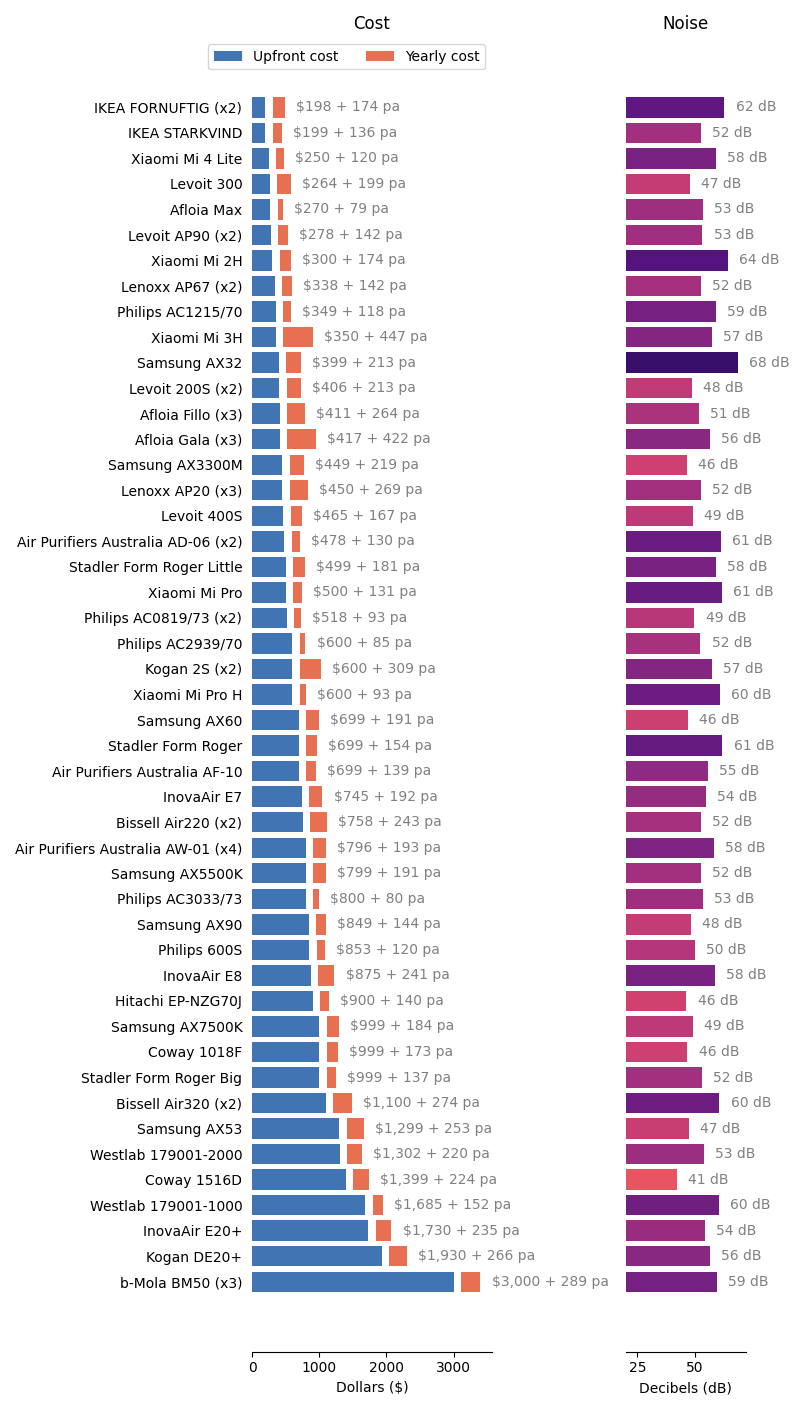
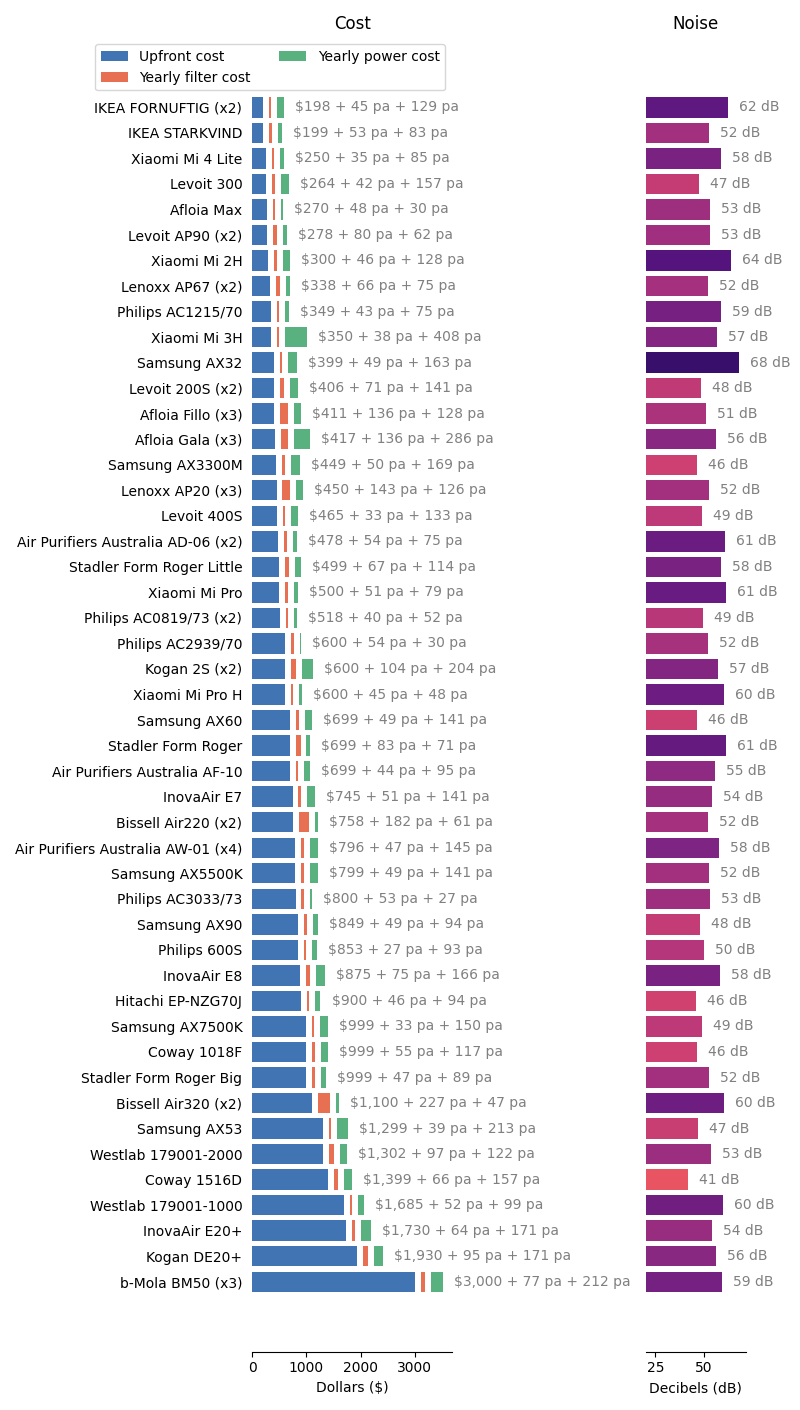
Quick push

diff --git a/products/decision_tool.html b/products/decision_tool.html
@@ -39,16 +39,16 @@ Running costs and noise levels (on the highest fan settings) are calculated from
 <fieldset id="qualityoptions" class="sq-form-section">
 <legend class="sq-form-section-title">How much additional air cleaning do you require?</legend>
 
-<input type="radio" id='poorop' value="poor" name="quality" onClick="update(this.form)">
-<label for="poorop">Poor (4ACH)</label>
-<input type="radio" id='goodop' value="good" name="quality" checked onClick="update(this.form)">
-<label for="goodop">Good (6ACH)</label>
-<input type="radio" id='excellentop' value="excellent" name="quality" onClick="update(this.form)">
-<label for="excellentop">Excellent (9ACH)</label>
+<input type="radio" id='a littleop' value="a little" name="quality" onClick="update(this.form)">
+<label for="a littleop">A little (4ACHe)</label>
+<input type="radio" id='someop' value="some" name="quality" checked onClick="update(this.form)">
+<label for="someop">Some (6ACHe)</label>
+<input type="radio" id='lotsop' value="lots" name="quality" onClick="update(this.form)">
+<label for="lotsop">Lots (9ACHe)</label>
 </fieldset>
 </div>
 </form>
-<p><em>Last updated 2022-09-06</em><p>
+<p><em>Last updated 2022-09-08</em><p>
 <figure class="figure figure--min"><img id = 'chosenimage' src='https://rsbyrne.github.io/aircleaning/products/placeholder.png' alt="Cost analysis">
 </figure>
 <script>

diff --git a/products/overview.html b/products/overview.html
@@ -7,7 +7,7 @@
 This chart provides clean air value for money for various devices where:</p><ul><li>Augmented air cleaning (Air Changes per Hour - ACH)</li><li>Noise (yellow = quiet; black = noisy)
 </li><li>Cost per hour (upfront purchase plus 5 years of running costs including filter replacements and electricity @20c/kWh)</li></ul>
 <div align="center">
-<em>Last updated 2022-09-06</em>
+<em>Last updated 2022-09-08</em>
 <figure class="figure figure--min">
 <img id = 'synoptic' src='https://rsbyrne.github.io/aircleaning/products/synoptic.png' alt="Synoptic"> 
 </figure>

diff --git a/aircleaning/produce.py b/aircleaning/produce.py
@@ -22,7 +22,7 @@ repodir = os.path.dirname(os.path.dirname(__file__))
 productsdir = os.path.join(repodir, 'products')
 
 
-def cost_analysis(data=None, /, volume='medium', quality='good', path=productsdir, name='default'):
+def cost_analysis(data=None, /, volume='medium', quality='some', path=productsdir, name='default'):
 
     data = analyse.cost_analysis(data, volume, quality)
     data = data.sort_values('upfront')
@@ -36,7 +36,8 @@ def cost_analysis(data=None, /, volume='medium', quality='good', path=productsdi
         ))
     dollarlabels = tuple(map(' + '.join, zip(
         data['upfront'].astype(int).apply('${:,}'.format),
-        data['running'].astype(int).apply('{:,} pa'.format),
+        data['power'].astype(int).apply('{:,} pa'.format),
+        data['filter'].astype(int).apply('{:,} pa'.format),
         )))
 
     plt.rcdefaults()
@@ -48,19 +49,23 @@ def cost_analysis(data=None, /, volume='medium', quality='good', path=productsdi
 
     y_pos = np.arange(len(data))
 
-    gap = (data['upfront'] + data['running']).max()
     innerbars = ax1.barh(
         y_pos, data['upfront'], color='#4074B2'
         )
-    outerbars = ax1.barh(
-        y_pos, data['running'], left=data['upfront']+gap/30, color='#E77052'
+
+    gap = (data['upfront'] + data['filter'] + data['power']).max() / 30
+    powerbars = ax1.barh(
+        y_pos, data['power'], left=data['upfront']+gap, color='#E77052'
+        )
+    filterbars = ax1.barh(
+        y_pos, data['filter'], left=data['upfront']+data['power']+gap*2, color='#59B17F'
         )
     ax1.set_yticks(y_pos, labels=data['fullname'])
     ax1.invert_yaxis()  # labels read top-to-bottom
     ax1.set_xlabel('Dollars ($)')
     ax1.set_title('Cost')
     ax1.bar_label(
-        outerbars, dollarlabels,
+        filterbars, dollarlabels,
         label_type='edge', padding=8, fmt='$%d', color='grey'
         )
     ax1.spines['top'].set_visible(False)
@@ -68,7 +73,8 @@ def cost_analysis(data=None, /, volume='medium', quality='good', path=productsdi
     ax1.spines['left'].set_visible(False)
     ax1.tick_params(axis='y', which='both', left=False)
     ax1.legend(
-        [innerbars, outerbars], ['Upfront cost', 'Yearly cost'],
+        [innerbars, powerbars, filterbars],
+        ['Upfront cost', 'Yearly filter cost', 'Yearly power cost'],
         ncol=2,
         )
 
@@ -87,13 +93,6 @@ def cost_analysis(data=None, /, volume='medium', quality='good', path=productsdi
     ax2.spines['right'].set_visible(False)
     ax2.spines['left'].set_visible(False)
     ax2.tick_params(axis='y', which='both', left=False)
-    # ax2.legend(
-    #     [bars,], ['Highest volume'],
-    #     ncol=2,
-    #     )
-
-    # title = f"Air cleaner choices: a {volume}-sized room with {quality} air quality"
-    # fig.suptitle(title, fontproperties=dict(weight='heavy'))
 
     plt.savefig(os.path.join(path, name) + '.png')
 
@@ -255,7 +254,7 @@ def multi_cost_analysis(path=productsdir):
                 )
 
 
-def synoptic(data=None, /, volume='medium', quality='good', path=productsdir):
+def synoptic(data=None, /, volume='medium', quality='some', path=productsdir):
 
     if isinstance(volume, str):
         volstr = volume
@@ -324,13 +323,89 @@ def synoptic(data=None, /, volume='medium', quality='good', path=productsdir):
         ax=ax,
         )
 
-    nomx = getnom(*ax.get_xlim())
-    nomy = getnom(*ax.get_ylim())
-    ax.axhline(quality)
-    ax.text(0.02 * nomx, quality + 0.01 * nomy, 'Good quality')
+    # nomx = getnom(*ax.get_xlim())
+    # nomy = getnom(*ax.get_ylim())
+    # ax.axhline(quality)
+    # ax.text(0.02 * nomx, quality + 0.01 * nomy, 'Good quality')
 
     plt.savefig(os.path.join(path, 'synoptic') + '.png')
 
 
 ###############################################################################
 ###############################################################################
+
+
+# def cost_analysis(data=None, /, volume='medium', quality='some', path=productsdir, name='default'):
+
+#     data = analyse.cost_analysis(data, volume, quality)
+#     data = data.sort_values('upfront')
+#     # data = data.loc[data['nunits'] < 6]
+#     data = data.drop('Dyson', level='manufacturer')
+#     data['fullname'] = tuple(map(
+#         ''.join, zip(
+#             map(' '.join, data.index),
+#             (f' (x{n})' if n>1 else '' for n in data['nunits']),
+#             )
+#         ))
+#     dollarlabels = tuple(map(' + '.join, zip(
+#         data['upfront'].astype(int).apply('${:,}'.format),
+#         data['running'].astype(int).apply('{:,} pa'.format),
+#         )))
+
+#     plt.rcdefaults()
+#     fig, (ax1, ax2) = \
+#         plt.subplots(ncols=2, gridspec_kw={'width_ratios': [2, 1]})
+
+#     fig.set_size_inches(8, 0.3 * len(data))
+#     fig.set_tight_layout(True)
+
+#     y_pos = np.arange(len(data))
+
+#     gap = (data['upfront'] + data['running']).max()
+#     innerbars = ax1.barh(
+#         y_pos, data['upfront'], color='#4074B2'
+#         )
+#     outerbars = ax1.barh(
+#         y_pos, data['running'], left=data['upfront']+gap/30, color='#E77052'
+#         )
+#     ax1.set_yticks(y_pos, labels=data['fullname'])
+#     ax1.invert_yaxis()  # labels read top-to-bottom
+#     ax1.set_xlabel('Dollars ($)')
+#     ax1.set_title('Cost')
+#     ax1.bar_label(
+#         outerbars, dollarlabels,
+#         label_type='edge', padding=8, fmt='$%d', color='grey'
+#         )
+#     ax1.spines['top'].set_visible(False)
+#     ax1.spines['right'].set_visible(False)
+#     ax1.spines['left'].set_visible(False)
+#     ax1.tick_params(axis='y', which='both', left=False)
+#     ax1.legend(
+#         [innerbars, outerbars], ['Upfront cost', 'Yearly cost'],
+#         ncol=2,
+#         )
+
+#     noisecmap = load.get_parameters_data().loc['noise cmap', 'value']
+#     noisecolours = tuple(
+#         map(plt.get_cmap(noisecmap), Normalize(20, 80)(data['noise']))
+#         )
+#     bars = ax2.barh(y_pos, data['noise'], color=noisecolours)
+#     ax2.set_yticks(y_pos, labels=[])
+#     ax2.invert_yaxis()  # labels read top-to-bottom
+#     ax2.set_xlabel('Decibels (dB)')
+#     ax2.set_title('Noise')
+#     ax2.set_xlim(20)
+#     ax2.bar_label(bars, label_type='edge', padding=8, fmt='%d dB', color='grey')
+#     ax2.spines['top'].set_visible(False)
+#     ax2.spines['right'].set_visible(False)
+#     ax2.spines['left'].set_visible(False)
+#     ax2.tick_params(axis='y', which='both', left=False)
+#     # ax2.legend(
+#     #     [bars,], ['Highest volume'],
+#     #     ncol=2,
+#     #     )
+
+#     # title = f"Air cleaner choices: a {volume}-sized room with {quality} air quality"
+#     # fig.suptitle(title, fontproperties=dict(weight='heavy'))
+
+#     plt.savefig(os.path.join(path, name) + '.png')

diff --git a/aircleaning/analyse.py b/aircleaning/analyse.py
@@ -43,6 +43,8 @@ def cost_analysis(data=None, /, volume='medium', quality='good'):
     data['upfront'] = data['cost']
     data = data.drop('cost', axis=1)
     data['running'] = filtercost + powercost
+    data['power'] = powercost
+    data['filter'] = filtercost
     data['nunits'] = nunits
 
     return data
